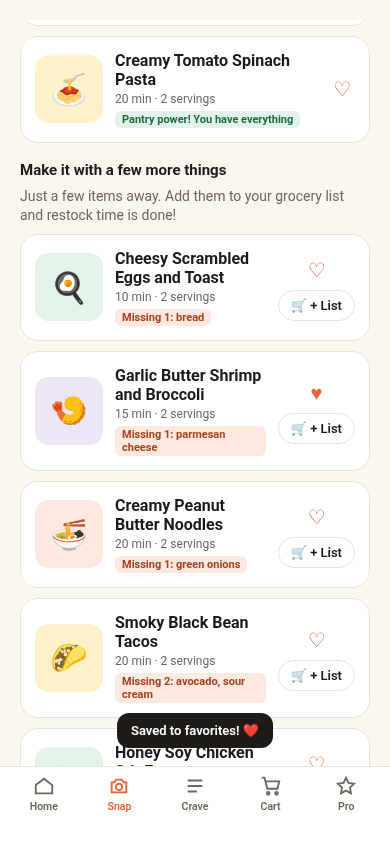
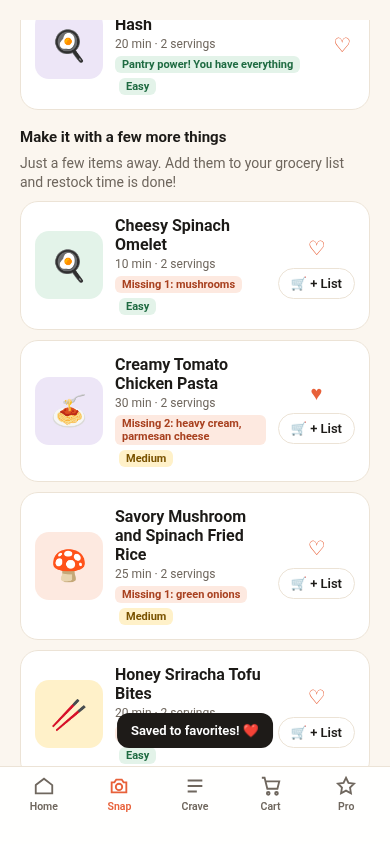
Recipe difficulty mix (Easy/Medium/Chef mode), higher caps for elaborate dishes, near-duplicate title filter, cache ui10

diff --git a/web/app.js b/web/app.js
@@ -162,7 +162,7 @@ async function moreIdeas() {
   const fresh = list => (list || []).filter(r => r?.name && !seen.has(r.name.toLowerCase()) && seen.add(r.name.toLowerCase()));
   const call = section => api('recipes', { ingredients, craving: state.craving, section, avoid }, 65000).then(j => j.recipes).catch(() => []);
   const [ready, more] = await Promise.all([call('ready'), call('more')]);
-  const a = fresh(ready), b = fresh(more);
+  const a = dedupe(fresh(ready), avoid), b = dedupe(fresh(more), avoid.concat(a.map(r => r.name)));
   R.ready = (R.ready || []).concat(a); R.more = (R.more || []).concat(b); LS.set('recipes', R);
   state.moreBusy = false;
   if (location.hash === '#recipes') { const y = el('recipes').scrollTop; renderRecipes(); el('recipes').scrollTop = y; }
@@ -173,16 +173,21 @@ async function getRecipes() {
   const ingredients = state.ingredients.slice(0, 80).map(i => (i.cat === 'Spices & Seasonings' ? '[spice] ' : '') + i.name + (i.qty ? ' (' + i.qty + ')' : ''));
   const call = async section => { for (let a = 0; a < 2; a++) { try { return (await api('recipes', { ingredients, craving: state.craving, section }, 65000)).recipes || []; } catch (e) { if (a) throw e; } } };
   state.moreBusy = false;
-  try { const [ready, more] = await Promise.all([call('ready'), call('more')]); state.recipes = { craving: state.craving, ready, more }; LS.set('recipes', state.recipes); }
+  try { const [ready0, more0] = await Promise.all([call('ready'), call('more')]); const ready = dedupe(ready0, []); const more = dedupe(more0, ready.map(r => r.name)); state.recipes = { craving: state.craving, ready, more }; LS.set('recipes', state.recipes); }
   catch (e) { el('recipesBody').innerHTML = `<div class="kick">Oops, kitchen hiccup!</div><h2>Recipes didn't come through</h2><p class="sub">${esc(e.message)} Your ingredients are saved.</p><button class="btn primary" id="goRecipes">Retry 🔄</button>`; return; }
   renderRecipes();
 }
+const STOP = new Set(['and', 'with', 'the', 'a', 'of', 'in', 'on', 'style', 'quick', 'easy', 'simple', 'classic', 'homemade', 'savory', 'creamy', 'crispy', 'cheesy', 'spicy', 'garlic', 'butter', 'herb', 'herbed']);
+const words = n => new Set(n.toLowerCase().replace(/[^a-z ]/g, ' ').split(/\s+/).filter(w => w.length > 2 && !STOP.has(w)).map(w => w.replace(/(es|s)$/, '')));
+function similar(a, b) { const A = words(a), B = words(b); if (!A.size || !B.size) return a.toLowerCase() === b.toLowerCase(); let k = 0; A.forEach(w => B.has(w) && k++); return k / Math.min(A.size, B.size) >= 0.6; }
+function dedupe(list, seenNames) { const out = []; for (const r of list || []) { if (!r?.name) continue; if ([...seenNames, ...out.map(x => x.name)].some(n => similar(n, r.name))) continue; out.push(r); } return out; }
+const LEVEL_PILL = l => l === 'Chef mode' ? '<span class="pill" style="background:var(--dark);color:#fff;margin-left:4px">👨🍳 Chef mode</span>' : l === 'Medium' ? '<span class="pill" style="background:#FFF1C9;color:#7A5300;margin-left:4px">Medium</span>' : '<span class="pill g" style="margin-left:4px">Easy</span>';
 const THUMBS = ['#FFF1C9', '#E3F3E9', '#EDE6F7', '#FDE9E0'];
 function renderRecipes() {
   const R = state.recipes;
   if (!R) { el('recipesBody').innerHTML = `<div class="kick">Craving unlocked!</div><h2>No recipes yet</h2><p class="sub">Snap your fridge first and we'll match recipes to what you have.</p><a class="btn primary" href="#scan">📸 Snap it</a>`; return; }
-  const ready = (R.ready || []).map((r, i) => `<a class="card recipe" href="#recipe" data-rec="ready:${i}"><div class="thumb" style="background:${THUMBS[i % 4]}">${esc(r.emoji || '🍳')}</div><div style="flex:1"><b>${esc(r.name)}</b><div class="meta">${esc(r.minutes)} min · ${esc(r.servings)} servings</div><span class="pill g">Pantry power! You have everything</span></div>${heart('ready:' + i, r)}</a>`).join('') || `<p class="sub">Nothing makes the cut with only what you have. Check the ideas below!</p>`;
-  const more = (R.more || []).map((r, i) => `<div class="card recipe"><a href="#recipe" data-rec="more:${i}" style="display:flex;gap:12px;align-items:center;flex:1;color:inherit;text-decoration:none"><div class="thumb" style="background:${THUMBS[(i + 1) % 4]}">${esc(r.emoji || '🍜')}</div><div style="flex:1"><b>${esc(r.name)}</b><div class="meta">${esc(r.minutes)} min · ${esc(r.servings)} servings</div><span class="pill c">Missing ${r.missing.length}: ${esc(r.missing.map(m => m.item).join(', '))}</span></div></a><span style="display:flex;flex-direction:column;align-items:center;gap:4px">${heart('more:' + i, r)}<a class="chip" href="#list" data-addmiss="more:${i}" style="white-space:nowrap">🛒 + List</a></span></div>`).join('');
+  const ready = (R.ready || []).map((r, i) => `<a class="card recipe" href="#recipe" data-rec="ready:${i}"><div class="thumb" style="background:${THUMBS[i % 4]}">${esc(r.emoji || '🍳')}</div><div style="flex:1"><b>${esc(r.name)}</b><div class="meta">${esc(r.minutes)} min · ${esc(r.servings)} servings</div><span class="pill g">Pantry power! You have everything</span>${LEVEL_PILL(r.level)}</div>${heart('ready:' + i, r)}</a>`).join('') || `<p class="sub">Nothing makes the cut with only what you have. Check the ideas below!</p>`;
+  const more = (R.more || []).map((r, i) => `<div class="card recipe"><a href="#recipe" data-rec="more:${i}" style="display:flex;gap:12px;align-items:center;flex:1;color:inherit;text-decoration:none"><div class="thumb" style="background:${THUMBS[(i + 1) % 4]}">${esc(r.emoji || '🍜')}</div><div style="flex:1"><b>${esc(r.name)}</b><div class="meta">${esc(r.minutes)} min · ${esc(r.servings)} servings</div><span class="pill c">Missing ${r.missing.length}: ${esc(r.missing.map(m => m.item).join(', '))}</span>${LEVEL_PILL(r.level)}</div></a><span style="display:flex;flex-direction:column;align-items:center;gap:4px">${heart('more:' + i, r)}<a class="chip" href="#list" data-addmiss="more:${i}" style="white-space:nowrap">🛒 + List</a></span></div>`).join('');
   el('recipesBody').innerHTML = `<div class="kick">Craving unlocked!</div><h2>Matched to “${esc(R.craving || state.craving)}”</h2>
     <h3>Ready now: let's get cooking!</h3><p class="sub">You already have everything for these. Pantry power!</p><div style="height:8px"></div>${ready}
     ${more ? `<h3>Make it with a few more things</h3><p class="sub">Just a few items away. Add them to your grocery list and restock time is done!</p><div style="height:8px"></div>${more}<a class="btn ghost" href="#list" data-addmiss="all">🛒 Restock time! Build my grocery list</a>` : ''}

diff --git a/functions/api/[[path]].js b/functions/api/[[path]].js
@@ -20,7 +20,7 @@ async function limited(env, ip, route) {
 
 const STAPLES = 'salt, pepper, cooking oil, water, sugar, flour, butter, common dried spices';
 const RECIPE = { type: 'object', properties: {
-  name: { type: 'string' }, emoji: { type: 'string' }, minutes: { type: 'integer' }, servings: { type: 'integer' }, level: { type: 'string', enum: ['Easy', 'Medium', 'Hard'] },
+  name: { type: 'string' }, emoji: { type: 'string' }, minutes: { type: 'integer' }, servings: { type: 'integer' }, level: { type: 'string', enum: ['Easy', 'Medium', 'Chef mode'] },
   ingredients: { type: 'array', items: { type: 'object', properties: { item: { type: 'string' }, qty: { type: 'string' }, have: { type: 'boolean' } }, required: ['item', 'qty', 'have'] } },
   missing: { type: 'array', items: { type: 'object', properties: { item: { type: 'string' }, qty: { type: 'string' }, est_price: { type: 'number' } }, required: ['item', 'qty', 'est_price'] } },
   steps: { type: 'array', items: { type: 'string' } } }, required: ['name', 'emoji', 'minutes', 'servings', 'level', 'ingredients', 'missing', 'steps'] };
@@ -39,7 +39,7 @@ async function gemini(env, route, parts) {
   for (const [model, ms, thinking] of chain) {
     const ctl = new AbortController(); const timer = setTimeout(() => ctl.abort(), ms); const t0 = Date.now();
     try {
-      const gc = { responseMimeType: 'application/json', responseSchema: SCHEMAS[route], temperature: 0.6, maxOutputTokens: 6000 };
+      const gc = { responseMimeType: 'application/json', responseSchema: SCHEMAS[route], temperature: 0.6, maxOutputTokens: 8000 };
       if (thinking) gc.thinkingConfig = thinking;
       const r = await fetch(`https://generativelanguage.googleapis.com/v1beta/models/${model}:generateContent`, { method: 'POST', signal: ctl.signal,
         headers: { 'content-type': 'application/json', 'x-goog-api-key': env.GEMINI_API_KEY },
@@ -100,7 +100,7 @@ export async function onRequest({ request, env, params }) {
     const ask = section === 'ready'
       ? 'Give exactly 3 recipes that use ONLY the ingredients on hand plus staples. missing must be an empty list and every ingredient have=true.'
       : 'Give exactly 3 recipes matching the craving that need 1 to 4 extra items. List those in missing with a rough US grocery price in USD (est_price) for the smallest common package, and mark them have=false in ingredients.';
-    parts = [{ text: `Ingredients on hand (items marked [spice] are spices/seasonings the user owns; use them to flavor the recipes): ${ing.join('; ')}.\nAlways available staples: ${STAPLES}.\nCraving: ${craving}.\n${ask} Use a handful of the on-hand items per recipe, not all of them. Keep it concise: at most 10 ingredients and 6 short steps per recipe. Sort by fewest missing items, then shortest time.${avoid.length ? ' Do NOT repeat or closely copy these already-shown recipes: ' + avoid.join('; ') + '. Give new, different dishes.' : ''} One food emoji per recipe. 2 servings unless the dish needs more.` }];
+    parts = [{ text: `Ingredients on hand (items marked [spice] are spices/seasonings the user owns; use them to flavor the recipes): ${ing.join('; ')}.\nAlways available staples: ${STAPLES}.\nCraving: ${craving}.\n${ask} Use a handful of the on-hand items per recipe, not all of them. Make the 3 a mix: 1 quick Easy dish (level Easy, at most 8 ingredients, 5 short steps), 1 Medium dish (level Medium, at most 10 ingredients, 7 steps), and 1 elaborate restaurant-style showstopper (level Chef mode: more technique, layered flavors, a pan sauce, glaze, marinade or crispy element, and a plating tip in the last step; up to 14 ingredients and 10 clear steps). Keep each step to one or two sentences. Order them Easy, Medium, Chef mode.${avoid.length ? ' Do NOT repeat or closely copy these already-shown recipes: ' + avoid.join('; ') + '. Give new, different dishes.' : ''} One food emoji per recipe. 2 servings unless the dish needs more.` }];
   } else {
     const craving = String(body.craving || '').slice(0, 80).trim(); const ing = clean(body.ingredients);
     if (!craving) return json({ error: 'Name a craving first!' }, 400);

diff --git a/web/sw.js b/web/sw.js
@@ -1,6 +1,6 @@
 // Network-first for everything (HTML/JS/CSS always fresh when online); cache only as offline fallback.
-const VERSION = 'sc-2026-10-20-ui9';
-const SHELL = ['./', './index.html', './app.js?v=ui9', './manifest.webmanifest', './icons/icon-192.png', './icons/icon-512.png', './icons/apple-touch-icon.png'];
+const VERSION = 'sc-2026-10-20-ui10';
+const SHELL = ['./', './index.html', './app.js?v=ui10', './manifest.webmanifest', './icons/icon-192.png', './icons/icon-512.png', './icons/apple-touch-icon.png'];
 self.addEventListener('install', e => { self.skipWaiting(); e.waitUntil(caches.open(VERSION).then(c => c.addAll(SHELL)).catch(() => {})); });
 self.addEventListener('activate', e => { e.waitUntil(caches.keys().then(ks => Promise.all(ks.filter(k => k !== VERSION).map(k => caches.delete(k)))).then(() => self.clients.claim())); });
 self.addEventListener('fetch', e => {

diff --git a/web/index.html b/web/index.html
@@ -318,6 +318,6 @@ ol.steps li::before{content:counter(s);flex-shrink:0;width:24px;height:24px;bord
 <input type="file" id="snapCam" accept="image/*" capture="environment" multiple hidden>
 <input type="file" id="snapLib" accept="image/*" multiple hidden>
 <div id="toast" style="position:fixed;left:50%;bottom:96px;transform:translateX(-50%);background:var(--dark);color:#fff;padding:10px 14px;border-radius:12px;font-size:13px;font-weight:600;display:none;z-index:20;max-width:340px;text-align:center"></div>
-<script src="app.js?v=ui9"></script>
+<script src="app.js?v=ui10"></script>
 </body>
 </html>
